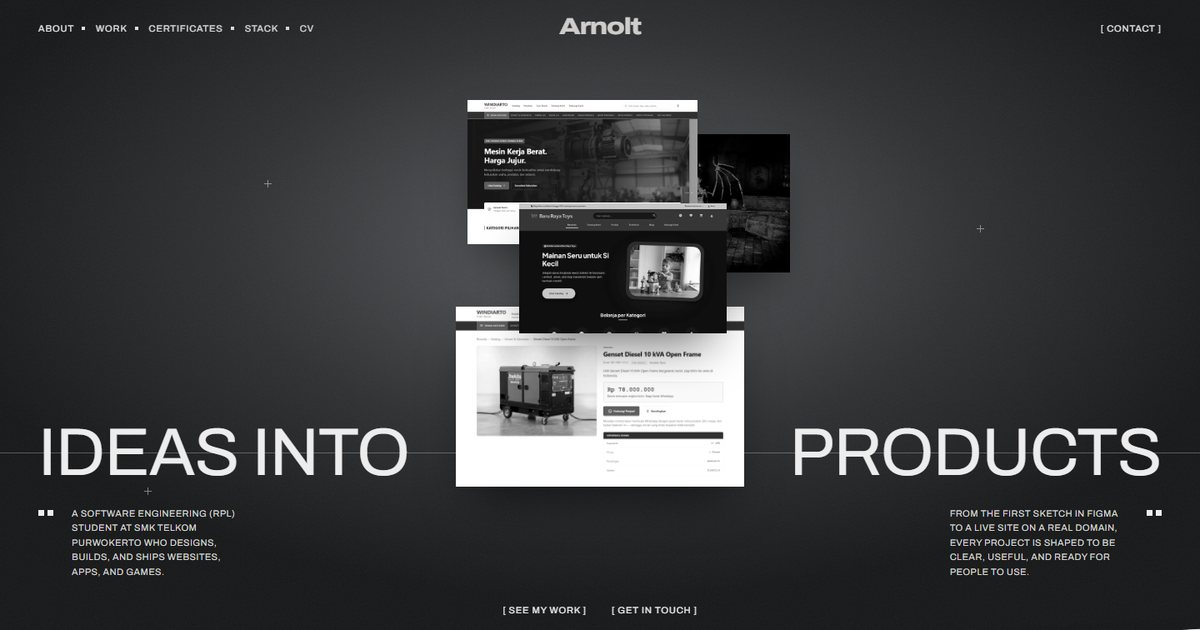
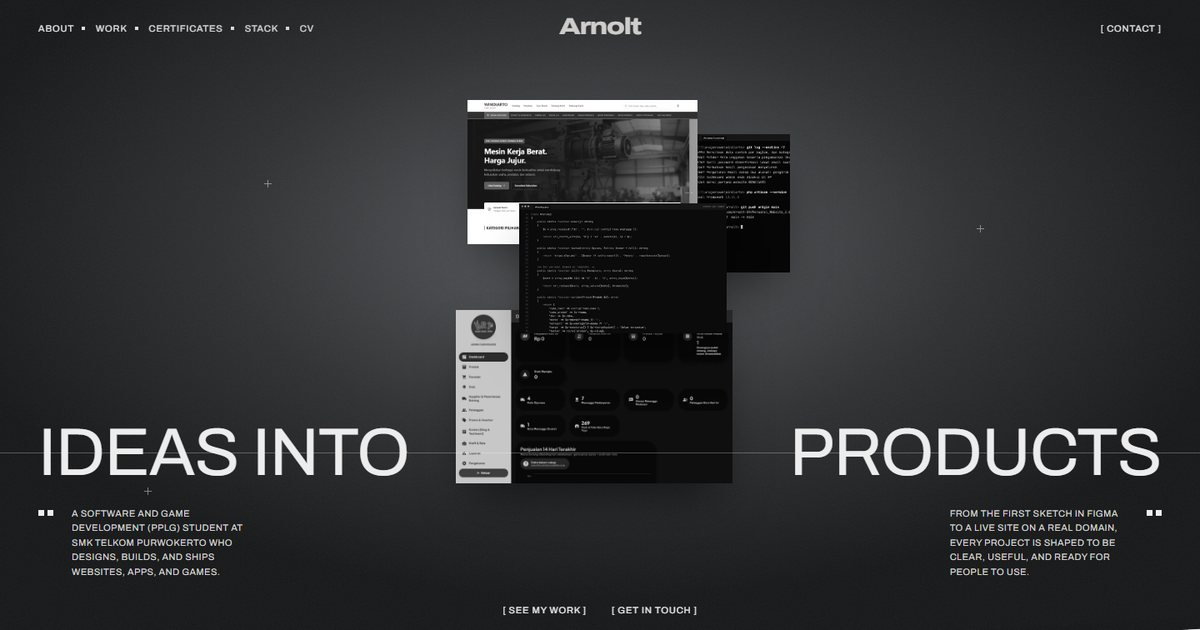
Foto hiasan lebih "developer" + dashboard admin & pelanggan
- Kolase beranda & foto melayang: campuran website, kode (PHP & JS),
  terminal (git & artisan), dashboard admin Windiarto & Baru Raya,
  dan halaman riwayat pesanan pelanggan Baru Raya
- Galeri proyek Windiarto & Baru Raya ditambah halaman admin/pelanggan
- Gambar dipotong dari kiri-atas supaya awal baris kode tidak terpotong;
  gambar bawah kolase tidak lagi menutupi tombol
- Judul Education: "The schools that shaped me."

Changed region(s): [[0.37, 0.2111, 0.6783, 0.7841], [0.0617, 0.7841, 0.2158, 0.9349]]

diff --git a/assets/css/style.css b/assets/css/style.css
@@ -270,10 +270,10 @@ html:not(.js) .preloader { display: none; }
   background: #222;
   box-shadow: 0 30px 60px -20px rgba(0, 0, 0, 0.6);
 }
-.hero__collage img { width: 100%; height: 100%; object-fit: cover; object-position: top; filter: grayscale(1) contrast(1.05); }
+.hero__collage img { width: 100%; height: 100%; object-fit: cover; object-position: left top; filter: grayscale(1) contrast(1.05); }
 .hero__collage figure:nth-child(1) { top: 0;   left: 4%;  width: 80%;  aspect-ratio: 16 / 10; z-index: 2; }
 .hero__collage figure:nth-child(2) { top: 27%; left: 22%; width: 72%;  aspect-ratio: 16 / 10; z-index: 3; }
-.hero__collage figure:nth-child(3) { top: 54%; left: 0;   width: 100%; aspect-ratio: 16 / 10; z-index: 1; }
+.hero__collage figure:nth-child(3) { bottom: 0; left: 0;   width: 96%;  aspect-ratio: 16 / 10; z-index: 1; } /* anchored to the bottom so it never covers the buttons */
 .hero__collage figure:nth-child(4) { top: 9%;  left: 80%; width: 36%;  aspect-ratio: 3 / 4;   z-index: 1; }
 
 .hero__title {
@@ -370,7 +370,7 @@ html:not(.js) .preloader { display: none; }
 .statement__about p:first-child { color: var(--text); }
 
 .float { position: absolute; z-index: 1; overflow: hidden; background: #1a1a1a; }
-.float img { width: 100%; height: 100%; object-fit: cover; filter: grayscale(1); opacity: 0.85; }
+.float img { width: 100%; height: 100%; object-fit: cover; object-position: left top; filter: grayscale(1); opacity: 0.85; }
 .float--a { left: 6%; top: 44%; width: clamp(120px, 16vw, 250px); aspect-ratio: 4 / 5; }
 .float--b { right: 8%; top: 12%; width: clamp(130px, 15vw, 240px); aspect-ratio: 16 / 11; }
 
@@ -636,7 +636,7 @@ html:not(.js) .preloader { display: none; }
   position: absolute; overflow: hidden; background: #222;
   box-shadow: 0 30px 60px -20px rgba(0, 0, 0, 0.6);
 }
-.portrait__floats img { width: 100%; height: 100%; object-fit: cover; filter: grayscale(1); }
+.portrait__floats img { width: 100%; height: 100%; object-fit: cover; object-position: left top; filter: grayscale(1); }
 .portrait__floats figure:nth-child(1) { left: 11%; top: 18%; width: clamp(110px, 14vw, 220px); aspect-ratio: 16 / 10; }
 .portrait__floats figure:nth-child(2) { left: 30%; top: 7%;  width: clamp(120px, 15vw, 240px); aspect-ratio: 16 / 10; z-index: -1; }
 .portrait__floats figure:nth-child(3) { right: 12%; top: 30%; width: clamp(110px, 13vw, 210px); aspect-ratio: 16 / 11; }
@@ -781,7 +781,7 @@ html:not(.js) .preloader { display: none; }
   .hero__collage { grid-column: 1; grid-row: 2; min-height: 0; height: 88vw; max-height: 520px; margin: 18px 0; }
   .hero__collage figure:nth-child(1) { left: 6%;  width: 66%; }
   .hero__collage figure:nth-child(2) { left: 30%; width: 62%; top: 26%; }
-  .hero__collage figure:nth-child(3) { left: 4%;  width: 78%; top: 52%; }
+  .hero__collage figure:nth-child(3) { left: 4%;  width: 78%; bottom: 0; }
   .hero__collage figure:nth-child(4) { left: 72%; width: 26%; top: 4%; }
   .hero__title { grid-row: 1; grid-template-columns: 1fr; row-gap: 4px; font-size: clamp(2.6rem, 13vw, 5rem); }
   .hero__word--left, .hero__word--right { grid-column: 1; }
